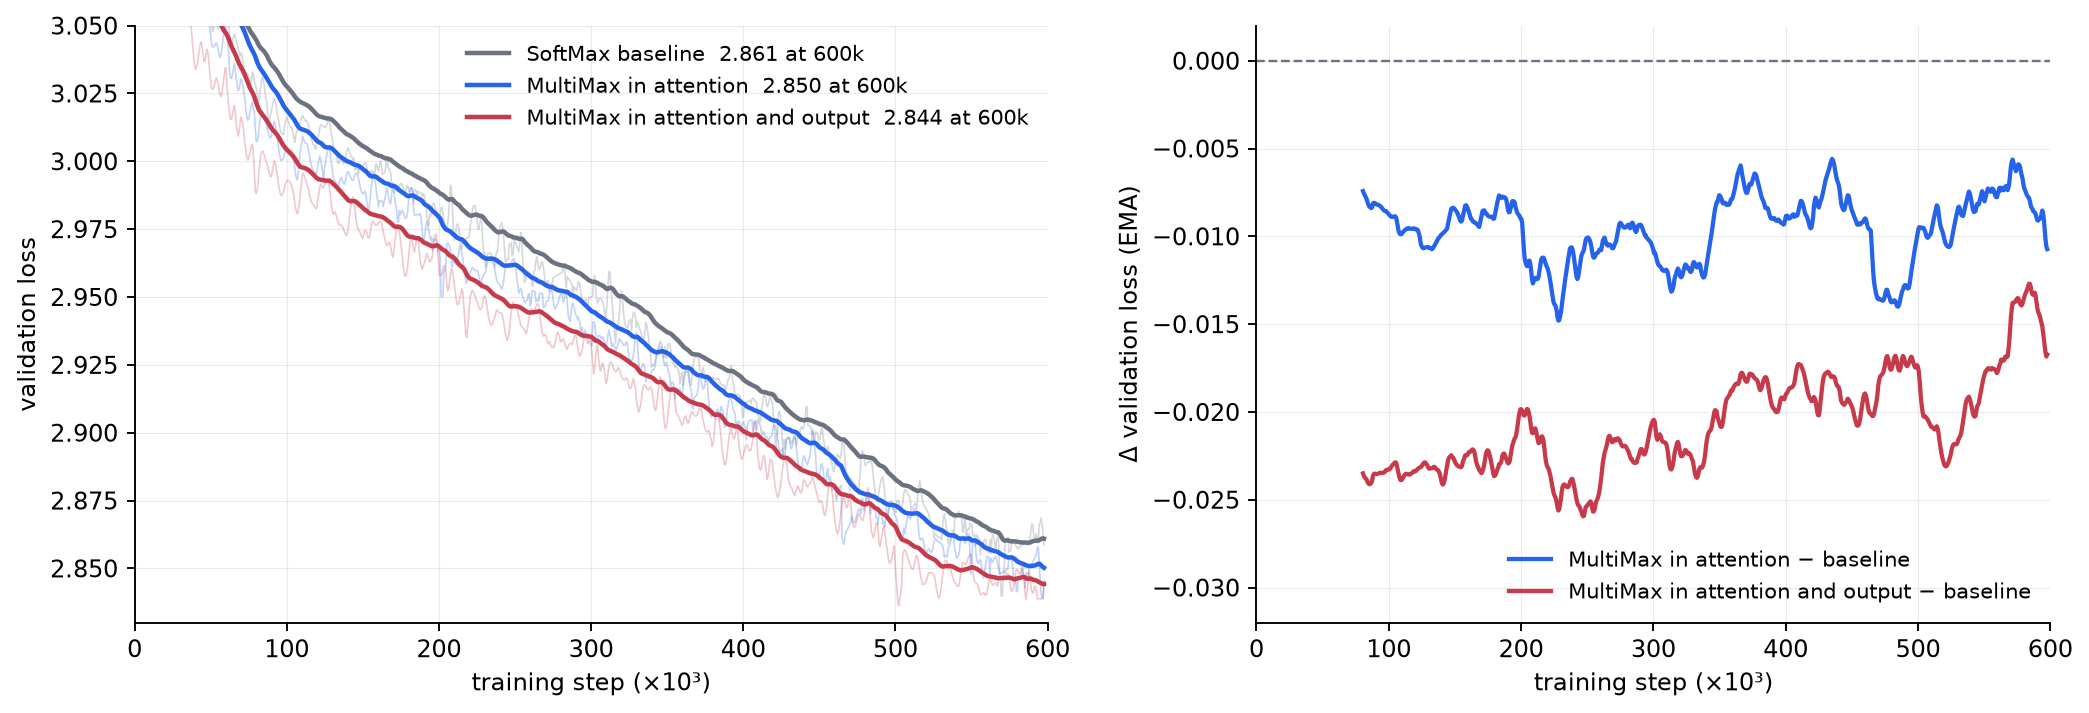
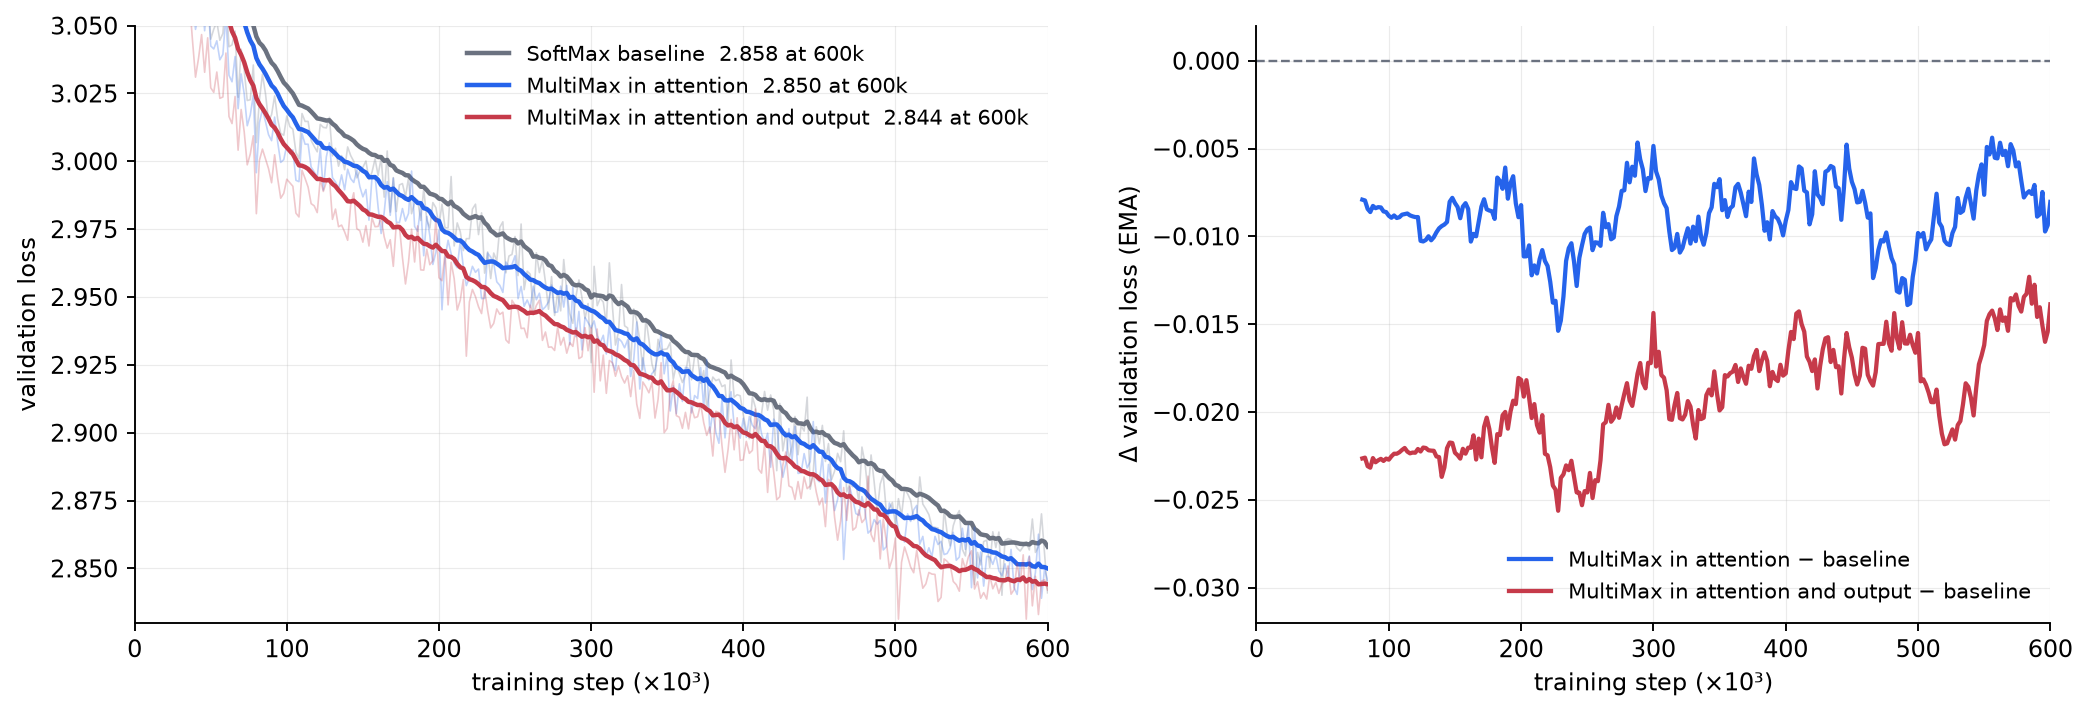
Blog: nanoGPT Figure 7 and its numbers from the raw training logs

diff --git a/_posts/2026-11-05-one-knob-is-not-enough-softmax-temperature-vs-multimax.md b/_posts/2026-11-05-one-knob-is-not-enough-softmax-temperature-vs-multimax.md
@@ -104,8 +104,8 @@ The main results are:
 - **One logit row** (Table 1, Figure 2): MultiMax improves on the default SoftMax in both metrics,
   which no temperature does: sparsity rises from $0.376$ to $0.823$ and multi-modality from $0.792$
   to $0.866$, and at matched sparsity MultiMax adds $0.217$ multi-modality.
-- **GPT-2 on OpenWebText** (Figures 6 and 7): after smoothing, the validation loss is $0.010$ lower
-  with MultiMax in attention and $0.021$ lower with MultiMax in attention and the output layer, on
+- **GPT-2 on OpenWebText** (Figures 6 and 7): after smoothing, the validation loss is $0.009$ lower
+  with MultiMax in attention and $0.019$ lower with MultiMax in attention and the output layer, on
   average from step 80k to the end of the 600k-step run.
 - **A 10B-A1B mixture-of-experts model over 600B tokens** (Figures 9 and 10): the training loss,
   including a multi-token-prediction term, is $0.011$ lower in a run that differs from the baseline
@@ -331,8 +331,8 @@ released, without the training rules introduced in the next section.
     GPT-2 (124M) with 12 layers, 12 heads, $d_{\text{model}} = 768$, context 1024 and vocabulary
     50,304, on OpenWebText. Perplexity on the right axis. Grey: SoftMax baseline. Blue: MultiMax in
     the attention layers only. Red: MultiMax in attention <i>and</i> the output layer. Dots mark the
-    lowest single evaluation of each run; evaluations fluctuate by about 0.01, so Figure 7 smooths
-    the curves.
+    lowest single evaluation of each run; evaluations scatter around the trend by about 0.007 (one
+    standard deviation), so Figure 7 smooths the curves.
   </figcaption>
 </figure>
 
@@ -349,15 +349,15 @@ released, without the training rules introduced in the next section.
 
 **Both placements lower the loss** (Figures 6 and 7). The baseline reproduces the published
 reference: the nanoGPT README expects this recipe to "go down to loss of ~2.85" [5], and the
-smoothed grey curve ends at $2.861$. From step 80k on, MultiMax in attention alone lies $0.010$
-below it on average, and MultiMax in attention and the output layer $0.021$ below; at step 600k,
-the smoothed losses are $2.861$, $2.850$ and $2.844$. No output-only run was trained, so the share
+smoothed grey curve ends at $2.858$. From step 80k on, MultiMax in attention alone lies $0.009$
+below it on average, and MultiMax in attention and the output layer $0.019$ below; at step 600k,
+the smoothed losses are $2.858$, $2.850$ and $2.844$. No output-only run was trained, so the share
 of the output layer is by difference.
 
 **The output layer adds slightly more than attention, mostly early in training.** On top of
-attention, it lowers the smoothed loss by $0.011$ on average, against $0.010$ for attention itself;
-before step 200k the gap is clearer, $0.014$ against $0.009$, and from step 300k on the two shares
-are within $0.002$ of each other. On DeiT-small, the two placements add $0.3$ top-1 each and $0.6$
+attention, it lowers the smoothed loss by $0.010$ on average, against $0.009$ for attention itself;
+before step 200k the gap is clearer, $0.013$ against $0.009$, and from step 300k on the two shares
+are within $0.001$ of each other. On DeiT-small, the two placements add $0.3$ top-1 each and $0.6$
 together [1], while no attention temperature, fixed or learned, beats the default by more than
 $0.1$.
 
